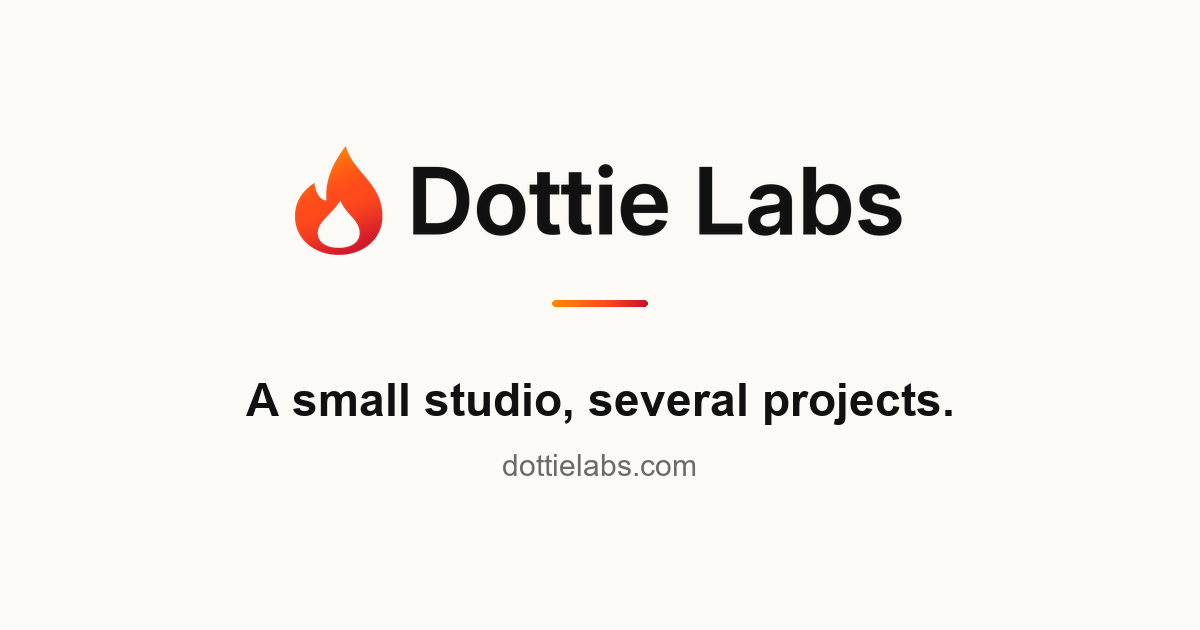
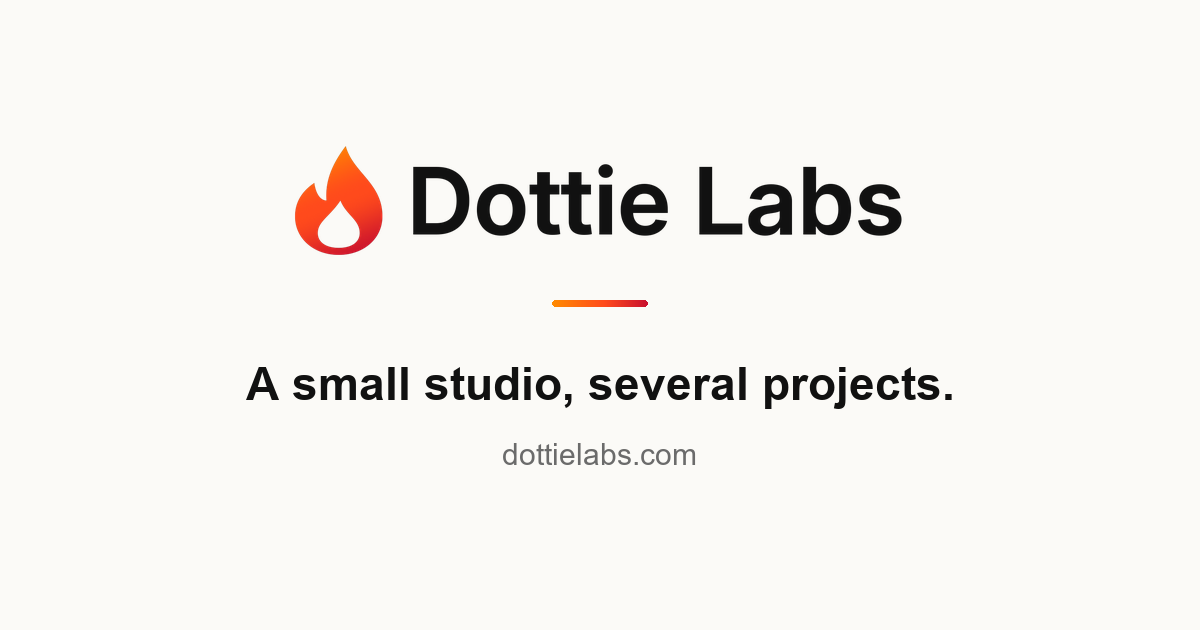
Rename brands to projects, QR labels, hover flip, standard site files

Changed region(s): [[0.185, 0.573, 0.8017, 0.6937], [0.4008, 0.6937, 0.5858, 0.754]]

diff --git a/index.html b/index.html
@@ -3,7 +3,7 @@
 <head>
 <meta charset="utf-8">
 <meta name="viewport" content="width=device-width, initial-scale=1">
-<title>Dottie Labs — a small studio, several brands</title>
+<title>Dottie Labs — a small studio, several projects</title>
 <meta name="description" content="Dottie Labs is the studio behind a small set of independent projects, founded by Dottie Wang in Las Vegas.">
 <link rel="icon" type="image/png" sizes="32x32" href="assets/favicon-32.png">
 <link rel="icon" type="image/png" sizes="192x192" href="assets/favicon-192.png">
@@ -34,7 +34,7 @@
 
   <header class="site-header">
     <div class="wrap">
-      <a class="logo" href="./" aria-label="Dottie Labs home">
+      <a class="logo" href="/" aria-label="Dottie Labs home">
         <img src="assets/dottie-labs-logo-lockup-transparent.png" width="157" height="34" alt="Dottie Labs">
       </a>
       <nav class="nav" aria-label="Primary">
@@ -49,7 +49,7 @@
       <div class="wrap">
         <p class="eyebrow">Independent studio · Las Vegas, Nevada</p>
         <div class="rule" aria-hidden="true"></div>
-        <h1><span>Dottie Labs</span><span class="grad">A small studio, several brands.</span></h1>
+        <h1><span>Dottie Labs</span><span class="grad">A small studio, several projects.</span></h1>
         <p class="lede">Independent products and sites, in one place.</p>
         <nav class="jump" aria-label="Jump to a project">
           <p class="jump-label">The projects</p>
@@ -83,13 +83,16 @@
             <p class="desc">Las Vegas recommendations.</p>
             <div class="card-foot">
               <a class="visit" href="https://www.getrecdlv.com" aria-label="Visit Get Rec’d LV (getrecdlv.com)">Visit <span aria-hidden="true">→</span></a>
-              <span class="url">getrecdlv.com</span>
             </div>
           </div>
           <figure class="qr-tile">
             <img class="qr" src="assets/qr/get-recd-lv.svg" width="136" height="136" alt="QR code for getrecdlv.com">
-            <figcaption>Scan</figcaption>
+            <figcaption><span>Scan to visit</span><span class="qr-url">getrecdlv.com</span></figcaption>
           </figure>
+          <div class="card-shot" aria-hidden="true">
+            <img src="assets/shots/get-recd-lv.jpg" alt="" loading="lazy" onload="this.closest('.card').classList.add('has-shot')">
+            <p class="shot-label"><strong>Get Rec’d LV</strong><span>getrecdlv.com →</span></p>
+          </div>
         </article>
       </li>
       <li id="say-it-with-a-bloom">
@@ -100,13 +103,16 @@
             <p class="desc">Floral gifting.</p>
             <div class="card-foot">
               <a class="visit" href="https://sayitwithabloom.com" aria-label="Visit Say It With A Bloom (sayitwithabloom.com)">Visit <span aria-hidden="true">→</span></a>
-              <span class="url">sayitwithabloom.com</span>
             </div>
           </div>
           <figure class="qr-tile">
             <img class="qr" src="assets/qr/say-it-with-a-bloom.svg" width="136" height="136" alt="QR code for sayitwithabloom.com">
-            <figcaption>Scan</figcaption>
+            <figcaption><span>Scan to visit</span><span class="qr-url">sayitwithabloom.com</span></figcaption>
           </figure>
+          <div class="card-shot" aria-hidden="true">
+            <img src="assets/shots/say-it-with-a-bloom.jpg" alt="" loading="lazy" onload="this.closest('.card').classList.add('has-shot')">
+            <p class="shot-label"><strong>Say It With A Bloom</strong><span>sayitwithabloom.com →</span></p>
+          </div>
         </article>
       </li>
       <li id="just-in-case-im-dead">
@@ -117,13 +123,16 @@
             <p class="desc">Plans and tools for if something happens to you.</p>
             <div class="card-foot">
               <a class="visit" href="https://www.justincaseimdead.com" aria-label="Visit Just In Case I'm Dead (justincaseimdead.com)">Visit <span aria-hidden="true">→</span></a>
-              <span class="url">justincaseimdead.com</span>
             </div>
           </div>
           <figure class="qr-tile">
             <img class="qr" src="assets/qr/just-in-case-im-dead.svg" width="136" height="136" alt="QR code for justincaseimdead.com">
-            <figcaption>Scan</figcaption>
+            <figcaption><span>Scan to visit</span><span class="qr-url">justincaseimdead.com</span></figcaption>
           </figure>
+          <div class="card-shot" aria-hidden="true">
+            <img src="assets/shots/just-in-case-im-dead.jpg" alt="" loading="lazy" onload="this.closest('.card').classList.add('has-shot')">
+            <p class="shot-label"><strong>Just In Case I'm Dead</strong><span>justincaseimdead.com →</span></p>
+          </div>
         </article>
       </li>
       <li id="young-roth-club">
@@ -134,13 +143,16 @@
             <p class="desc">Helps parents guide kids toward earned income for a custodial Roth IRA.</p>
             <div class="card-foot">
               <a class="visit" href="https://youngrothclub.com" aria-label="Visit Young Roth Club (youngrothclub.com)">Visit <span aria-hidden="true">→</span></a>
-              <span class="url">youngrothclub.com</span>
             </div>
           </div>
           <figure class="qr-tile">
             <img class="qr" src="assets/qr/young-roth-club.svg" width="136" height="136" alt="QR code for youngrothclub.com">
-            <figcaption>Scan</figcaption>
+            <figcaption><span>Scan to visit</span><span class="qr-url">youngrothclub.com</span></figcaption>
           </figure>
+          <div class="card-shot" aria-hidden="true">
+            <img src="assets/shots/young-roth-club.jpg" alt="" loading="lazy" onload="this.closest('.card').classList.add('has-shot')">
+            <p class="shot-label"><strong>Young Roth Club</strong><span>youngrothclub.com →</span></p>
+          </div>
         </article>
       </li>
       <li id="readingtheroom4u">
@@ -151,13 +163,16 @@
             <p class="desc">A small wait-time helper for Chinatown and Spring Mountain Road restaurants in Las Vegas.</p>
             <div class="card-foot">
               <a class="visit" href="https://www.getrecdlv.com/food" aria-label="Visit ReadingTheRoom4U (getrecdlv.com/food)">Visit <span aria-hidden="true">→</span></a>
-              <span class="url">getrecdlv.com/food</span>
             </div>
           </div>
           <figure class="qr-tile">
             <img class="qr" src="assets/qr/readingtheroom4u.svg" width="136" height="136" alt="QR code for getrecdlv.com/food">
-            <figcaption>Scan</figcaption>
+            <figcaption><span>Scan to visit</span><span class="qr-url">getrecdlv.com/food</span></figcaption>
           </figure>
+          <div class="card-shot" aria-hidden="true">
+            <img src="assets/shots/readingtheroom4u.jpg" alt="" loading="lazy" onload="this.closest('.card').classList.add('has-shot')">
+            <p class="shot-label"><strong>ReadingTheRoom4U</strong><span>getrecdlv.com/food →</span></p>
+          </div>
         </article>
       </li>
       <li id="p1meetsp2">
@@ -168,13 +183,16 @@
             <p class="desc">A dating site where singles play games together instead of swiping and texting.</p>
             <div class="card-foot">
               <a class="visit" href="https://www.p1meetsp2.com" aria-label="Visit P1meetsP2 (p1meetsp2.com)">Visit <span aria-hidden="true">→</span></a>
-              <span class="url">p1meetsp2.com</span>
             </div>
           </div>
           <figure class="qr-tile">
             <img class="qr" src="assets/qr/p1meetsp2.svg" width="136" height="136" alt="QR code for p1meetsp2.com">
-            <figcaption>Scan</figcaption>
+            <figcaption><span>Scan to visit</span><span class="qr-url">p1meetsp2.com</span></figcaption>
           </figure>
+          <div class="card-shot" aria-hidden="true">
+            <img src="assets/shots/p1meetsp2.jpg" alt="" loading="lazy" onload="this.closest('.card').classList.add('has-shot')">
+            <p class="shot-label"><strong>P1meetsP2</strong><span>p1meetsp2.com →</span></p>
+          </div>
         </article>
       </li>
         </ul>

diff --git a/styles.css b/styles.css
@@ -73,15 +73,16 @@ a:hover { color: #C8102E; text-decoration-color: currentColor; }
 .section-head h2 { margin-bottom: 0; }
 .section-note { margin: 0; color: var(--muted); font-size: 16px; }
 
-/* Brand cards */
+/* Project cards */
 .cards { list-style: none; margin: 0; padding: 0; display: grid; gap: 20px; grid-template-columns: repeat(auto-fill, minmax(min(100%, 480px), 1fr)); }
 .card {
   position: relative; height: 100%;
   display: grid; grid-template-columns: minmax(0, 1fr) auto; gap: 24px; align-items: center;
   padding: 28px; background: var(--card); border: 1px solid var(--line); border-radius: 18px;
-  transition: border-color .15s, box-shadow .15s; overflow: hidden;
+  transition: border-color .15s, box-shadow .15s, transform .6s cubic-bezier(.2,.7,.2,1);
+  transform-style: preserve-3d;
 }
-.card::before { content: ""; position: absolute; left: 0; right: 0; top: 0; height: 3px; background: var(--fire); opacity: 0; transition: opacity .15s; }
+.card::before { content: ""; position: absolute; left: 0; right: 0; top: 0; height: 3px; border-radius: 18px 18px 0 0; background: var(--fire); opacity: 0; transition: opacity .15s; }
 .card:hover::before, .card:focus-within::before { opacity: 1; }
 .card-body { display: flex; flex-direction: column; height: 100%; }
 .card .meta { margin: 0 0 14px; display: flex; align-items: center; gap: 12px; }
@@ -89,12 +90,24 @@ a:hover { color: #C8102E; text-decoration-color: currentColor; }
 .card .tag { font-size: 12px; font-weight: 600; letter-spacing: .08em; text-transform: uppercase; color: var(--muted); padding: 4px 10px; border-radius: 999px; background: #F4F1EA; }
 .card-foot { margin-top: auto; padding-top: 20px; display: flex; flex-wrap: wrap; align-items: center; gap: 10px 14px; }
 .qr-tile { margin: 0; padding: 12px 12px 8px; background: var(--bg); border: 1px solid var(--line); border-radius: 14px; display: flex; flex-direction: column; align-items: center; gap: 6px; }
-.qr-tile figcaption { font-size: 11px; font-weight: 600; letter-spacing: .14em; text-transform: uppercase; color: var(--muted); }
+.qr-tile figcaption { display: flex; flex-direction: column; align-items: center; gap: 1px; text-align: center; max-width: 136px; }
+.qr-tile figcaption span:first-child { font-size: 11px; font-weight: 600; letter-spacing: .14em; text-transform: uppercase; color: var(--muted); }
+.qr-tile .qr-url { font-size: 12px; font-weight: 600; color: var(--ink); word-break: break-all; line-height: 1.3; }
+
+/* Hover flip to screenshot — only when assets/shots/<id>.jpg exists */
+.cards > li { perspective: 1600px; }
+.card-body, .qr-tile { backface-visibility: hidden; -webkit-backface-visibility: hidden; }
+.card-shot { position: absolute; inset: -1px; border-radius: 18px; overflow: hidden; background: var(--ink); transform: rotateY(180deg); backface-visibility: hidden; -webkit-backface-visibility: hidden; display: none; }
+.card.has-shot .card-shot { display: block; }
+.card-shot img { width: 100%; height: 100%; object-fit: cover; object-position: top center; }
+.shot-label { position: absolute; left: 12px; right: 12px; bottom: 12px; margin: 0; display: flex; flex-wrap: wrap; align-items: center; justify-content: space-between; gap: 4px 12px; padding: 12px 16px; background: #fff; border-radius: 12px; font-size: 14px; }
+.shot-label strong { font-size: 16px; font-weight: 750; letter-spacing: -0.01em; }
+.shot-label span { color: #C8102E; font-weight: 600; }
+@media (hover: hover) { .cards > li:hover .card.has-shot { transform: rotateY(180deg); } }
 .card:hover { border-color: #F4B9A6; box-shadow: 0 10px 30px -18px rgba(200,16,46,.35); }
 .card:focus-within { border-color: var(--focus); }
 .card h3 { margin: 0; font-size: 22px; font-weight: 750; letter-spacing: -0.02em; line-height: 1.2; }
 .card .desc { margin: 8px 0 0; color: var(--muted); font-size: 16px; line-height: 1.45; text-wrap: pretty; }
-.card .url { font-size: 14px; color: var(--ink); font-variant-numeric: tabular-nums; word-break: break-all; }
 .card .visit {
   display: inline-flex; align-items: center; gap: 8px;
   padding: 10px 18px; border-radius: 999px; background: var(--ink); color: #fff;

diff --git a/404.html b/404.html
@@ -5,6 +5,9 @@
 <meta name="viewport" content="width=device-width, initial-scale=1">
 <meta name="robots" content="noindex">
 <title>Page not found — Dottie Labs</title>
+<link rel="icon" type="image/png" sizes="32x32" href="/assets/favicon-32.png">
+<link rel="apple-touch-icon" href="/assets/apple-touch-icon.png">
+<meta name="theme-color" content="#FBFAF7">
 <link rel="preconnect" href="https://fonts.googleapis.com">
 <link rel="preconnect" href="https://fonts.gstatic.com" crossorigin>
 <link rel="stylesheet" href="https://fonts.googleapis.com/css2?family=Inter:wght@400..800&display=swap">
@@ -13,24 +16,18 @@
 <body>
 <div class="page">
   <img class="rings" src="/assets/rings.svg" alt="" aria-hidden="true">
-
   <header class="site-header">
     <div class="wrap">
-      <a class="logo" href="/" aria-label="Dottie Labs home">
-        <img src="/assets/dottie-labs-logo-lockup-transparent.png" width="157" height="34" alt="Dottie Labs">
-      </a>
+      <a class="logo" href="/" aria-label="Dottie Labs home"><img src="/assets/dottie-labs-logo-lockup-transparent.png" width="157" height="34" alt="Dottie Labs"></a>
     </div>
   </header>
-
-  <main>
-    <section class="hero">
-      <div class="wrap">
-        <p class="eyebrow">404</p>
-        <div class="rule" aria-hidden="true"></div>
-        <h1>Page not found.</h1>
-        <p class="lede">That page doesn't exist. Go to the <a href="/">homepage</a> or see the <a href="/#projects">projects</a>.</p>
-      </div>
-    </section>
+  <main class="hero">
+    <div class="wrap">
+      <p class="eyebrow">404</p>
+      <div class="rule" aria-hidden="true"></div>
+      <h1><span>Page not found.</span></h1>
+      <p class="lede">That page doesn't exist. <a href="/">Go to the homepage</a> or <a href="/#projects">see the projects</a>.</p>
+    </div>
   </main>
 </div>
 </body>

diff --git a/README.md b/README.md
@@ -1,35 +1,48 @@
 # dottielabs.com — static site
 
-Plain HTML + CSS. No build step, no framework, no JavaScript (except the Print button on the QR sheet).
+Plain HTML + CSS. No build step, no framework. The only JavaScript is the Print button on the QR sheet and a one-line check that turns on the hover flip when a card has a screenshot.
 
 ## Files
-- `index.html` — homepage (header, hero, brand cards with QR codes, about, footer)
+- `index.html` — homepage (header, hero, project cards with QR codes + URL labels, hover-flip screenshots, about, footer)
 - `qr/index.html` — printable QR sheet (letter size, 2 × 3 grid). Private: not linked from the site, marked noindex. Visit dottielabs.com/qr directly.
 - `styles.css` — all styles, including the print stylesheet
 - `assets/dottie-labs-logo-lockup-transparent.png` — official lockup (used in header + QR sheet)
-- `assets/dottie-labs-logo-lockup.png` — lockup on off-white
+- `assets/dottie-labs-logo-lockup.png` — lockup on off-white (for social/OG use)
 - `assets/dottie-labs-flame-mark.png` — flame only
 - `assets/favicon-32.png`, `assets/favicon-192.png`, `assets/apple-touch-icon.png` — icons from the flame
 - `assets/rings.svg` — top-right decorative rings
+- `assets/shots/*.jpg` — card screenshots for the hover flip (add these yourself, see below)
 - `assets/qr/*.svg` — QR codes (error correction M, 4-module quiet zone, black on white)
-
-## Standard site files
-- `CNAME` — custom domain for GitHub Pages; don't delete.
-- `.nojekyll` — serves the site without Jekyll processing.
-- `404.html` — branded page for missing URLs.
-- `robots.txt` — crawler guidance and sitemap location.
-- `sitemap.xml` — homepage sitemap; update `lastmod` when content changes.
-- `site.webmanifest` — site name, colors, and icon for browser integrations.
-- `assets/og-image.png` — 1200×630 link preview image.
 
 ## Open locally
 Open `index.html` in a browser, or in VS Code use the Live Server extension. (The `/` logo link and `qr/` folder link work best when served, not opened as a file.)
 
-## Deploy
-Upload the folder as-is to any static host: Netlify (drag and drop), Cloudflare Pages, Vercel, GitHub Pages, or S3. Point dottielabs.com at it. `/qr/` resolves to `qr/index.html` automatically.
+## Deploy (GitHub Pages)
+1. Put the **contents** of this folder at the root of the repo (so `index.html` and `CNAME` sit at the top level).
+2. Repo → Settings → Pages → Source: *Deploy from a branch*, branch `main`, folder `/ (root)`.
+3. Custom domain: `dottielabs.com` (already set by the `CNAME` file). Tick **Enforce HTTPS** once it's available.
+4. At your domain registrar, add DNS records:
+   - `A` records for `@`: 185.199.108.153, 185.199.109.153, 185.199.110.153, 185.199.111.153
+   - `CNAME` for `www` → `<your-github-username>.github.io`
+5. Push to `main`. The site redeploys automatically in about a minute.
+
+`/qr/` resolves to `qr/index.html` automatically. Unknown URLs show `404.html`.
+
+## Standard site files
+- `CNAME` — tells GitHub Pages the custom domain. Don't delete it.
+- `.nojekyll` — tells GitHub to serve files as-is, without its Jekyll build step.
+- `404.html` — the "page not found" page.
+- `robots.txt` — lets search engines index the site, excludes `/qr/`, and points to the sitemap.
+- `sitemap.xml` — the page list for Google. Update `lastmod` when content changes.
+- `site.webmanifest` — app name, colors and icon for phones and "Add to Home Screen".
+- `assets/og-image.png` — 1200 × 630 preview image shown when the link is shared (iMessage, Slack, LinkedIn, X).
+- In `index.html`: canonical URL, Open Graph and Twitter tags for link previews, and schema.org Organization data for Google.
 
 ## Print the QR sheet
 Go to `/qr/`, click **Print (letter)** (or Cmd/Ctrl+P). Choose Letter, scale 100%, margins Default, and turn on "Background graphics" for best results. Each code prints at ~2.1 in.
 
-## Editing brands
-Each brand is one `<li>` in `index.html` and one in `qr/index.html`. If a URL changes, regenerate its QR (any generator that outputs SVG: error correction M or higher, no center logo) and replace the file in `assets/qr/`.
+## Editing projects
+Each project is one `<li>` in `index.html` and one in `qr/index.html`. If a URL changes, regenerate its QR (any generator that outputs SVG: error correction M or higher, no center logo) and replace the file in `assets/qr/`.
+
+## Card screenshots (hover flip)
+Drop a screenshot for each project into `assets/shots/`, named after its card id: `get-recd-lv.jpg`, `say-it-with-a-bloom.jpg`, `just-in-case-im-dead.jpg`, `young-roth-club.jpg`, `readingtheroom4u.jpg`, `p1meetsp2.jpg`. Landscape, about 1200 × 750, top of the homepage. On desktop, hovering a card flips it to its screenshot. Cards without a screenshot don't flip. Phones never flip.
